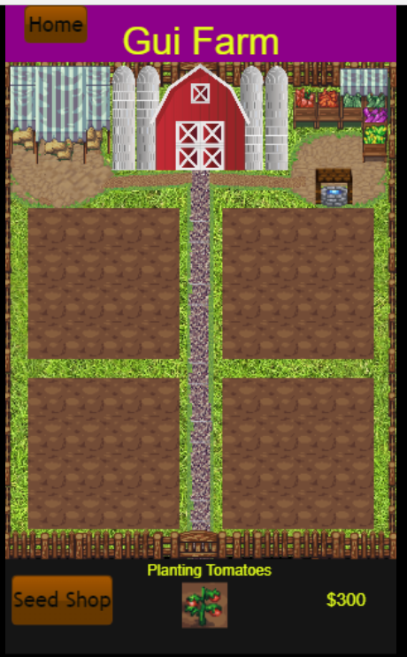
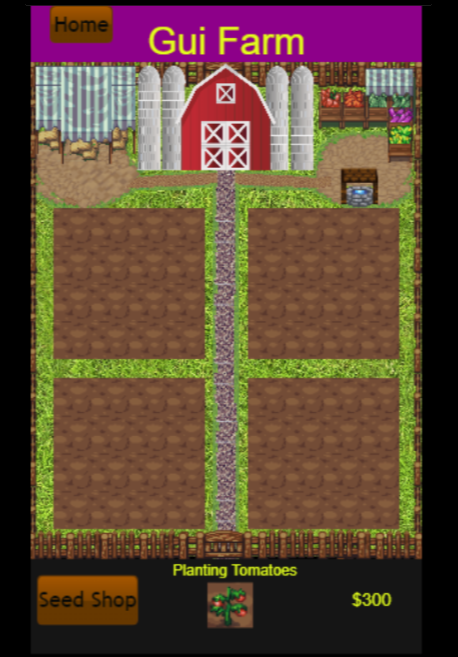
More GuiFarm

diff --git a/GuiFarm/farming_compiled.js b/GuiFarm/farming_compiled.js
@@ -395,9 +395,25 @@ var farming = {
         this.state = farming.EMPTY;
         var c = this;
         goog.events.listen(this, ["mousedown", "touchstart"], function (d) {
-            d.event.stopPropagation(); c.state == farming.EMPTY && b.money >= a.costPlowing ? (c.setFill("images/plowed.png"), c.state = farming.PLOWED, b.money -= a.costPlowing, a.updateMoney()) : c.state == farming.PLOWED && b.money >= a.crops[b.currentCrop].cost ?
-(c.setFill("images/growing.png"),c.state=farming.GROWING,c.crop=b.currentCrop,c.ripeTime=1E3*a.crops[b.currentCrop].time_to_ripe,c.deathTime=1E3*a.crops[b.currentCrop].time_to_death,b.money-=a.crops[b.currentCrop].cost,a.updateMoney()):c.state==farming.READY&&(c.setFill("images/bare_land.png"),c.state=farming.EMPTY,b.money+=a.crops[c.crop].revenue,a.updateMoney())});dt=1E3;lime.scheduleManager.scheduleWithDelay(function(){this.state==farming.GROWING?0>=this.ripeTime?(this.state=farming.READY,this.setFill("images/"+
-a.crops[this.crop].image)):this.ripeTime-=dt:this.state==farming.READY&&(0>=this.deathTime?(this.state=farming.EMPTY,this.setFill("images/bare_land.png")):this.deathTime-=dt)},this,dt)}};goog.inherits(farming.Land,lime.Sprite);lime.Scene=function(){lime.Node.call(this);this.setAnchorPoint(0,0);this.domClassName="lime-scene";this.createDomElement()};goog.inherits(lime.Scene,lime.Node);lime.Scene.prototype.getScene=function(){return this};lime.Scene.prototype.measureContents=function(){return this.getFrame()};lime.Button=function(a,b){lime.Layer.call(this);this.domClassName="lime-button";goog.isDef(a)&&this.setUpState(a);goog.isDef(b)&&this.setDownState(b);var c=this;goog.events.listen(this,["mousedown","touchstart","touchmove"],function(a){c.setState(lime.Button.State.DOWN);a.swallow("mousemove",function(a){c.hitTest(a)?c.setState(lime.Button.State.DOWN):c.setState(lime.Button.State.UP)});a.swallow("touchmove",function(a){c.hitTest(a)||(c.setState(lime.Button.State.UP),a.release())});a.swallow(["mouseup",
+            d.event.stopPropagation(); c.state == farming.EMPTY && b.money >= a.costPlowing ?
+                (c.setFill("images/plowed.png"), c.state = farming.PLOWED, b.money -= a.costPlowing, a.updateMoney())
+                : c.state == farming.PLOWED && b.money >= a.crops[b.currentCrop].cost ?
+                    (c.setFill("images/growing.png"), c.state = farming.GROWING,
+                        c.crop = b.currentCrop, c.ripeTime = 1E3 * a.crops[b.currentCrop].time_to_ripe, c.deathTime = 1E3 * a.crops[b.currentCrop].time_to_death,
+                        b.money -= a.crops[b.currentCrop].cost, a.updateMoney())
+                    : c.state == farming.READY && (c.setFill("images/bare_land.png"), c.state = farming.EMPTY,
+                        b.money += a.crops[c.crop].revenue, a.updateMoney())
+        });
+        dt = 1E3;
+        lime.scheduleManager.scheduleWithDelay(function () {
+        this.state == farming.GROWING ? 0 >= this.ripeTime ? (this.state = farming.READY, this.setFill("images/" +
+                a.crops[this.crop].image)) : this.ripeTime -= dt : this.state == farming.READY && (0 >= this.deathTime ? (this.state = farming.EMPTY, this.setFill("images/bare_land.png")) : this.deathTime -= dt)
+        }, this, dt)
+    }
+};
+goog.inherits(farming.Land, lime.Sprite); lime.Scene = function () { lime.Node.call(this); this.setAnchorPoint(0, 0); this.domClassName = "lime-scene"; this.createDomElement() }; goog.inherits(lime.Scene, lime.Node); lime.Scene.prototype.getScene = function () { return this }; lime.Scene.prototype.measureContents = function () { return this.getFrame() }; lime.Button = function (a, b) {
+    lime.Layer.call(this); this.domClassName = "lime-button"; goog.isDef(a) && this.setUpState(a); goog.isDef(b) && this.setDownState(b); var c = this; goog.events.listen(this, ["mousedown", "touchstart", "touchmove"], function (a) {
+        c.setState(lime.Button.State.DOWN); a.swallow("mousemove", function (a) { c.hitTest(a) ? c.setState(lime.Button.State.DOWN) : c.setState(lime.Button.State.UP) }); a.swallow("touchmove", function (a) { c.hitTest(a) || (c.setState(lime.Button.State.UP), a.release()) }); a.swallow(["mouseup",
 "touchend"],function(a){c.hitTest(a)&&c.dispatchEvent({type:lime.Button.Event.CLICK});this.setState(lime.Button.State.UP)})})};goog.inherits(lime.Button,lime.Layer);lime.Button.State={UP:0,DOWN:1};lime.Button.Event={UP:"up",DOWN:"down",CLICK:"click"};lime.Button.prototype.setUpState=function(a){this.upstate=a;this.appendChild(this.upstate);this.state_=-1;return this.setState(lime.Button.State.UP)};lime.Button.prototype.setDownState=function(a){this.downstate=a;this.appendChild(a);this.state_=-1;return this.setState(lime.Button.State.UP)};
 lime.Button.prototype.getState=function(){return this.state_};
 lime.Button.prototype.setState=function(a){if(a==this.state_)return this;this.state_==lime.Button.State.UP&&a==lime.Button.State.DOWN&&this.dispatchEvent({type:lime.Button.Event.DOWN});this.state_==lime.Button.State.DOWN&&a==lime.Button.State.UP&&this.dispatchEvent({type:lime.Button.Event.UP});var b=this.upstate;goog.isDef(this.downstate)&&(lime.Button.State.DOWN==a?b=this.downstate:this.downstate.setHidden(!0));b!=this.upstate&&this.upstate.setHidden(!0);b.setHidden(!1);this.state_=a;return this};lime.Renderer.CANVAS.ROUNDEDRECT={};lime.Renderer.DOM.ROUNDEDRECT={};lime.RoundedRect=function(){lime.Sprite.call(this);this.setRadius(5)};goog.inherits(lime.RoundedRect,lime.Sprite);lime.RoundedRect.prototype.id="roundedrect";lime.RoundedRect.prototype.supportedRenderers=[lime.Renderer.DOM.SPRITE.makeSubRenderer(lime.Renderer.DOM.ROUNDEDRECT),lime.Renderer.CANVAS.SPRITE.makeSubRenderer(lime.Renderer.CANVAS.ROUNDEDRECT)];lime.RoundedRect.prototype.getRadius=function(){return this.radius_};
@@ -491,6 +507,21 @@ lime.Director.prototype.makeMobileWebAppCapable=function(){var a=document.create
 COMPILED&&!a&&this.domElement.parentNode==document.body)&&(alert("Please install this page as a web app by clicking Share + Add to home screen."),goog.isDef(localStorage)&&localStorage.setItem("_lime_visited",!0))};lime.Director.prototype.updateDomOffset_=function(){this.domOffset=goog.style.getPageOffset(this.domElement.parentNode)};
 lime.Director.prototype.keyUpHandler_ = function (a) { a.altKey && "d" == String.fromCharCode(a.keyCode).toLowerCase() && (this.debugModeOn_ ? (goog.style.uninstallStyles(this.debugModeOn_), this.debugModeOn_ = null) : this.debugModeOn_ = goog.style.installStyles(".lime-scene div,.lime-scene img,.lime-scene canvas{border: 1px solid #c00;}"), a.stopPropagation(), a.preventDefault()) }; lime.Director.prototype.hitTest = function (a) { a && a.screenPosition && (a.position = this.screenToLocal(a.screenPosition)); return !0 };
 
+var player = {
+    playerLevel: 1,
+    barnLevel: 1,
+    shopLevel: 1,
+    fields: 2,
+    farms: 1,
+    tools: 10
+};
+if (typeof localStorage["farm_Player"] === "undefined") { localStorage.setItem('farm_Player', JSON.stringify(player));};
+player = JSON.parse(localStorage.getItem('farm_Player'));
+
+var starCash = 0;
+if (typeof localStorage["starCash"] === "undefined") { localStorage["starCash"] = 0; starCash = 0; };
+starCash = parseInt(localStorage["starCash"]);
+
 farming.start = function () {
     var a = { width: 310, height: 540, tile_size: 30, num_tiles_x: 4, num_tiles_y: 4, landLayer_w: 320, landLayer_h: 388, controlsLayer_w: 320, controlsLayer_h: 75, costPlowing: 3, shop_margin_x: 50, shop_margin_y: 35 },
         b = { money: 300, currentCrop: 0 };
@@ -515,7 +546,10 @@ farming.start = function () {
         { name: "crate2", image: "cornCrate.png" },
         { name: "well", image: "well.png" },
         { name: "anvil", image: "anvil1.png" },
-        { name: "anvil2", image: "anvil2.png" }
+        { name: "anvil2", image: "anvil2.png" },
+        { name: "trees1", image: "leftTrees.png" },
+        { name: "trees2", image: "rightTrees.png" },
+        { name: "horizRoad", image: "horizRoad.png" }
     ];
     a.barnlevel = [
         { name: "Basic Shed", image: "barn1.png" },
@@ -525,30 +559,30 @@ farming.start = function () {
         { name: "Double Silo Barn", image: "barn5.png" },
         { name: "Pasture", image: "pasture.png" }
     ];
-
+    
     var c = new lime.Director(document.body, a.width, a.height); c.makeMobileWebAppCapable(); c.setDisplayFPS(!1);
         var d = (new lime.Scene).setRenderer(lime.Renderer.CANVAS),
             e = (new lime.Layer).setAnchorPoint(0, 50),
             f = (new lime.Layer).setAnchorPoint(0, 50);
         d.appendChild(e);
         d.appendChild(f);
-        var gg = (new lime.Sprite).setAnchorPoint(0, 0).setPosition(0, 0).setSize(a.controlsLayer_w, a.controlsLayer_h - 30).setFill("#8b008b");
+        var gg = (new lime.Sprite).setAnchorPoint(0, 0).setPosition(0, 0).setSize(a.controlsLayer_w, a.controlsLayer_h - 35).setFill("#8b008b");
         f.appendChild(gg);
         gg = (new lime.GlossyButton).setColor("#663300").setText("Home").setPosition(40, a.height - (a.height -15) ).setSize(50, 30);
         f.appendChild(gg);
         var ggg = (new lime.Label).setText("Gui Farm").setFontColor("#E8FC08").setPosition(a.controlsLayer_w - 165, 30).setFontSize(30);
         f.appendChild(ggg);
-        var g = (new lime.Sprite).setAnchorPoint(0, 0).setPosition(0, a.height - a.controlsLayer_h -25).setSize(a.controlsLayer_w, a.controlsLayer_h).setFill("#0D0D0D");
+        var g = (new lime.Sprite).setAnchorPoint(0, 0).setPosition(0, a.height - a.controlsLayer_h -5).setSize(a.controlsLayer_w, a.controlsLayer_h).setFill("#0D0D0D");
         f.appendChild(g);
-        g = (new lime.GlossyButton).setColor("#663300").setText("Seed Shop").setPosition(45, a.height - a.controlsLayer_h / 2 - 30).setSize(80, 40);
+        g = (new lime.GlossyButton).setColor("#663300").setText("Change Seed").setPosition(65, a.height - a.controlsLayer_h / 2 +5).setSize(105, 40);
         f.appendChild(g);
-        var h = (new lime.Label).setText("$" + b.money).setFontColor("#E8FC08").setPosition(a.controlsLayer_w - 50, a.height - a.controlsLayer_h / 2 - 30);
+        var h = (new lime.Label).setText("$" + b.money).setFontColor("#E8FC08").setPosition(a.controlsLayer_w - 50, a.height - a.controlsLayer_h / 2 - 26);
         f.appendChild(h);
         a.updateMoney = function () { h.setText("$" + b.money) };
         var hh = b.currentCrop;
-        var w = (new lime.Label).setText("Planting " + a.crops[0].name ).setFontColor("#E8FC08").setFontSize(12).setPosition(a.controlsLayer_w / 2 +5 , a.height - a.controlsLayer_h / 2 - 53);
+        var w = (new lime.Label).setText("Planting " + a.crops[0].name ).setFontColor("#E8FC08").setFontSize(12).setPosition(a.controlsLayer_w / 2 +5 , a.height - a.controlsLayer_h / 2 - 26);
         f.appendChild(w);
-        var z = (new lime.Sprite).setAnchorPoint(0, 0).setPosition(a.controlsLayer_w / 2 - (20), a.height - a.controlsLayer_h / 2 - 44).setFill("images/" + a.crops[hh].image).setSize(a.tile_size * 1.2, a.tile_size * 1.2);
+        var z = (new lime.Sprite).setAnchorPoint(0, 0).setPosition(a.controlsLayer_w / 2 - (15), a.height - a.controlsLayer_h / 2 - 12).setFill("images/" + a.crops[hh].image).setSize(a.tile_size * 1.2, a.tile_size * 1.2);
         f.appendChild(z);
 
         var midback = (new lime.Sprite).setAnchorPoint(0, 0).setPosition(0, 45).setSize(a.controlsLayer_w, a.landLayer_h +5).setFill("images/" + a.barnyard[0].image); e.appendChild(midback)
@@ -569,6 +603,7 @@ farming.start = function () {
         var vertFence7 = (new lime.Sprite).setAnchorPoint(0, 0).setPosition(-3, 383).setSize(8, 90).setFill("images/" + a.barnyard[4].image); e.appendChild(vertFence7)
         var vertFence8 = (new lime.Sprite).setAnchorPoint(0, 0).setPosition(302, 383).setSize(8, 90).setFill("images/" + a.barnyard[4].image); e.appendChild(vertFence8)
         var horizFence1 = (new lime.Sprite).setAnchorPoint(0, 0).setPosition(-4, 35).setSize(315, 30).setFill("images/" + a.barnyard[5].image); e.appendChild(horizFence1)
+        var horizRoad = (new lime.Sprite).setAnchorPoint(0, 0).setPosition(0, 436).setSize(320, 25).setFill("images/" + a.barnyard[15].image); e.appendChild(horizRoad)
         var horizFence2 = (new lime.Sprite).setAnchorPoint(0, 0).setPosition(-4, 410).setSize(315, 30).setFill("images/" + a.barnyard[5].image); e.appendChild(horizFence2)
         var market = (new lime.Sprite).setAnchorPoint(0, 0).setPosition(221, 45).setSize(90, 60).setFill("images/" + a.barnyard[3].image); e.appendChild(market)
         var eggplantCrate = (new lime.Sprite).setAnchorPoint(0, 0).setPosition(283, 78).setSize(20, 30).setFill("images/" + a.barnyard[8].image); e.appendChild(eggplantCrate)
@@ -577,7 +612,8 @@ farming.start = function () {
         var shelter3 = (new lime.Sprite).setAnchorPoint(0, 0).setPosition(59, 48).setSize(18, 65).setFill("images/" + a.barnyard[6].image); e.appendChild(shelter3)
         var shelter2 = (new lime.Sprite).setAnchorPoint(0, 0).setPosition(22, 48).setSize(37, 72).setFill("images/" + a.barnyard[7].image); e.appendChild(shelter2)
         var anvil1 = (new lime.Sprite).setAnchorPoint(0, 0).setPosition(30, 129).setSize(25, 25).setFill("images/" + a.barnyard[12].image); e.appendChild(anvil1)
-        var barn = (new lime.Sprite).setAnchorPoint(0, 0).setPosition(84, 46).setSize(142, 85).setFill("images/" + a.barnlevel[4].image); e.appendChild(barn)
+        
+        var barn = (new lime.Sprite).setAnchorPoint(0, 0).setPosition(84, 46).setSize(142, 85).setFill("images/" + a.barnlevel[(4)].image); e.appendChild(barn)
 
 
         for (f = 0; f < a.num_tiles_x; f++)
@@ -585,10 +621,32 @@ farming.start = function () {
                
                 var j = (new farming.Land(a, b)).setPosition(f * a.tile_size +18, i * a.tile_size + 161); e.appendChild(j)
                 var v = (new farming.Land(a, b)).setPosition(f * a.tile_size + 172, i * a.tile_size + 161); e.appendChild(v)
+               
+                if (player.fields > 2) {
+                    var u = (new farming.Land(a, b)).setPosition(f * a.tile_size + 18, i * a.tile_size + 296); e.appendChild(u)
+                    if (player.fields >3) {
+                        var t = (new farming.Land(a, b)).setPosition(f * a.tile_size + 172, i * a.tile_size + 296); e.appendChild(t)
+                    }
+                    
+                }
+               
+            }
+
+        if (player.fields < 3) {
+            var trees1 = (new lime.Sprite).setAnchorPoint(0, 0).setPosition(18, 295).setSize(120, 120).setFill("images/" + a.barnyard[13].image); e.appendChild(trees1)
+            var treeUnlock1 = (new lime.Label).setAnchorPoint(0, 0).setFontColor("#E8FC08").setPosition(18, 345).setSize(120, 120).setText("Clear the Forest   50 Tools"); e.appendChild(treeUnlock1)
+
+        }
+        if (player.fields < 4) {
+            var trees2 = (new lime.Sprite).setAnchorPoint(0, 0).setPosition(172, 295).setSize(120, 120).setFill("images/" + a.barnyard[14].image); e.appendChild(trees2)
+            var treeUnlock2 = (new lime.Label).setAnchorPoint(0, 0).setFontColor("#E8FC08").setPosition(172, 345).setSize(120, 120).setText("Clear the Forest   50 Tools"); e.appendChild(treeUnlock2)
+        }
+        c.replaceScene(d);
+            goog.events.listen(trees1, ["mousedown", "touchstart"], function () {
+               
                 
-                var u = (new farming.Land(a, b)).setPosition(f * a.tile_size +18 , i * a.tile_size + 296); e.appendChild(u)
-                var t = (new farming.Land(a, b)).setPosition(f * a.tile_size + 172, i * a.tile_size + 296); e.appendChild(t)
-        } c.replaceScene(d);
+            });
+
         var l = (new lime.Scene).setRenderer(lime.Renderer.CANVAS),
             e = (new lime.Layer).setAnchorPoint(0, 0),
             f = (new lime.Sprite).setAnchorPoint(0, 0).setPosition(0, 0).setSize(a.width, a.height).setFill("#0D0D0D"); e.appendChild(f);
@@ -597,7 +655,8 @@ farming.start = function () {
             e.appendChild(f);
             goog.events.listen(g, ["mousedown", "touchstart"], function () { c.replaceScene(l) });
             goog.events.listen(f, ["mousedown", "touchstart"], function () { c.replaceScene(d) });
-            for (f = 0; f < a.crops.length; f++)
+            //for (f = 0; f < a.crops.length; f++)
+            for (f = 0; f < (player.barnLevel +1); f++)
                 g = (new lime.Sprite).setAnchorPoint(0, 0).setPosition(a.shop_margin_x -35, (a.shop_margin_y + (a.shop_margin_y + a.tile_size) * f) + (f * 9) - (f *1)).setFill("images/" + a.crops[f].image).setSize(a.tile_size *1.3, a.tile_size *1.3), e.appendChild(g),
                     i = (new lime.Label).setText(a.crops[f].name + " (" + a.crops[f].time_to_ripe + " days) ").setFontColor("#E8FC08").setFontSize(22).setPosition(a.shop_margin_x + 130, (1.4 * a.shop_margin_y + (a.shop_margin_y + a.tile_size) * f) + (f * 7) - (f*1) ), e.appendChild(i),
                     i = (new lime.Label).setText("Seeds: $" + a.crops[f].cost + " ").setFontColor("#133242").setFill("#C14825").setFontSize(16).setPosition(a.shop_margin_x + 80, (2.1 * a.shop_margin_y + (a.shop_margin_y + a.tile_size) * f) + ((f * 9)-f)), e.appendChild(i),
@@ -606,10 +665,11 @@ farming.start = function () {
                         goog.events.listen(y, ["mousedown", "touchstart"],
                             function () {
                                 b.currentCrop = e; c.replaceScene(d);
-                                var z = (new lime.Sprite).setAnchorPoint(0, 0).setPosition(a.controlsLayer_w / 2 - (20), a.height - a.controlsLayer_h / 2 - 44).setFill("images/" + a.crops[e].image).setSize(a.tile_size * 1.2, a.tile_size * 1.2);
+                                var z = (new lime.Sprite).setAnchorPoint(0, 0).setPosition(a.controlsLayer_w / 2 - (20), a.height - a.controlsLayer_h / 2 - 12).setFill("images/" + a.crops[e].image).setSize(a.tile_size * 1.2, a.tile_size * 1.2);
                                 w.setText("Planting " + a.crops[e].name);
                                 d.appendChild(z);
                                
                             })
                     }(g, f)
+
 };

diff --git a/index.html b/index.html
@@ -21,15 +21,18 @@
 </head>
 <body>
     <menu></menu>
-    <div>b 
+    <div>
         <img id="bubstorImg1" src="Images/Homepage/footerImg.png" onclick=""/>
+        <header><h3>Web Based , Mobile Friendly Games</h3> Our games also share a unified bonus <b>GuiStarCash</b> that can be earned and spent for bonuses in any game. Stuck on one and no cash for bonues? Try another game to build up your cash! </header>
         <section>
             <h1>Gui Bubble Story</h1>
             <div>
                 <a href="GuiFruitBubbles/" target="_blank">
                     <img id="bubstorImg2" src="Images/Homepage/bubstorImg.png" />
-                </a>
+                    </a>
             </div>
+            <div id="infoBubStor" class="infoDivs">Follow the kids as they help the wizard free the world from the mayhem of the evil bubble wizard. 96 levels of Bubble popping fun with new zones every six boards.
+            Warp your away across the universe with Bubble Popping fun like you have never seen. <br /> Like all other GuiGhost Games, earn GuiStarCash with every level and spend it on powerups in any of our games!  </div>
         </section>
         <section>
 
@@ -37,33 +40,41 @@
                 <h1> Gui SpellMatch </h1>
                 <br /> <br /><br />
                 <a href="GuiSpellMatch/" target="_blank">
-                    <img id="guiSpellMatch" src="Images/Homepage/SpellMatch.png" /> Gui  SpellMatch
+                    <img id="guiSpellMatch" src="Images/Homepage/SpellMatch.png" /> 
+                  
                 </a>
             </div>
-        </section>
+            <div id="infoSpellMat" class="infoDivs"> Match 3 fun like you have never experienced. Batlle through 3 touranments, matching spells to attack. But watch out, they fight back! Level your spells and the game board changes!</div>
+    </section>
         <section>
             <h1>Gui Farm</h1>
             <div>
                 <a href="GuiFarm/" target="_blank">
-                    <img id="bubstorImg5" src="Images/Homepage/GuiFarm.png" />
+                    <img id="farmImg" src="Images/Homepage/GuiFarm.png" />
+                    
                 </a>
             </div>
+            <div id="infoGuiFarm" class="infoDivs"> Farming fun for all ages. Grow crops, level your barnyard, and more! This is an early alpha version and is my current project under contruction.</div>
         </section>
         <section>
             <h1>Gui Match</h1>
             <div>
                 <a href="GuiMatch/" target="_blank">
                     <img id="bubstorImg3" src="Images/Homepage/GuiMatch.png" />
+                    
                     </a>
             </div>
+            <div id="infoGuiMatch" class="infoDivs"> Classic match 3 fun for all ages</div>
         </section>
         <section>
             <h1>Gui Suduku</h1>
             <div>
                 <a href="Gui-Soduku/" target="_blank">
                     <img id="bubstorImg4" src="Images/Homepage/guiSoduku.png" />
+                    
                 </a>
             </div>
+            <div id="infoSoduku" class="infoDivs"> Classic Soduku made for my daughter. Can you master Soduku?</div>
         </section>
       
 

diff --git a/ggHomestyle.css b/ggHomestyle.css
@@ -3,6 +3,14 @@
     text-align: center;
     background-image: url(Images/background.png);
     background-size: cover;
+    font-family: 'Comic Sans MS';
+    font-size: 18px;
+}
+header {
+    height: 140px;
+    width: 94%;
+    margin-left: 3%;
+    color: azure;
 }
 h1 {
     transform: translateY(-35px);
@@ -23,12 +31,47 @@ img {
 section {
     border: 3px inset black;
     transform: translateY(-10px);
-    height: 550px;
+    height: 700px;
+    width: 99%;
 }
-#bubstorImg5 {
-    transform: scale(.75) translateY(-175px);
-    height: 650px;
+#farmImg {
+    transform:  translateY(-60px);
+    height:550px;
 }
 #guiSpellMatch {
-    transform: translate(40px, -100px);
+    transform: translate(10px, -100px);
+}
+.infoDivs {
+    height: 110px;
+    font-family: 'Comic Sans MS';
+    font-size: 18px;
+    color:azure;
+    background-color:darkviolet;
+   border-radius: 15px;
+    width: 80%;
+    padding-top: 20px;
+    padding-bottom:5px;
+    margin-top:30px;
+    margin-left: 10%;
+    margin-bottom: 10px;
+    clear: both;
+    /*transform: translateX(-160px);*/
+    text-align: center;
+    text-decoration: none;
+}
+#infoSpellMat{
+    transform: translateY(-122px);
+    height: 50px;
+}
+#infoGuiFarm {
+    transform: translateY(-102px);
+    height: 50px;
+}
+#infoGuiMatch {
+    transform: translateY(-240px);
+    height: 40px;
+}
+#infoSoduku {
+    transform: translateY(-220px);
+    height: 40px;
 }
